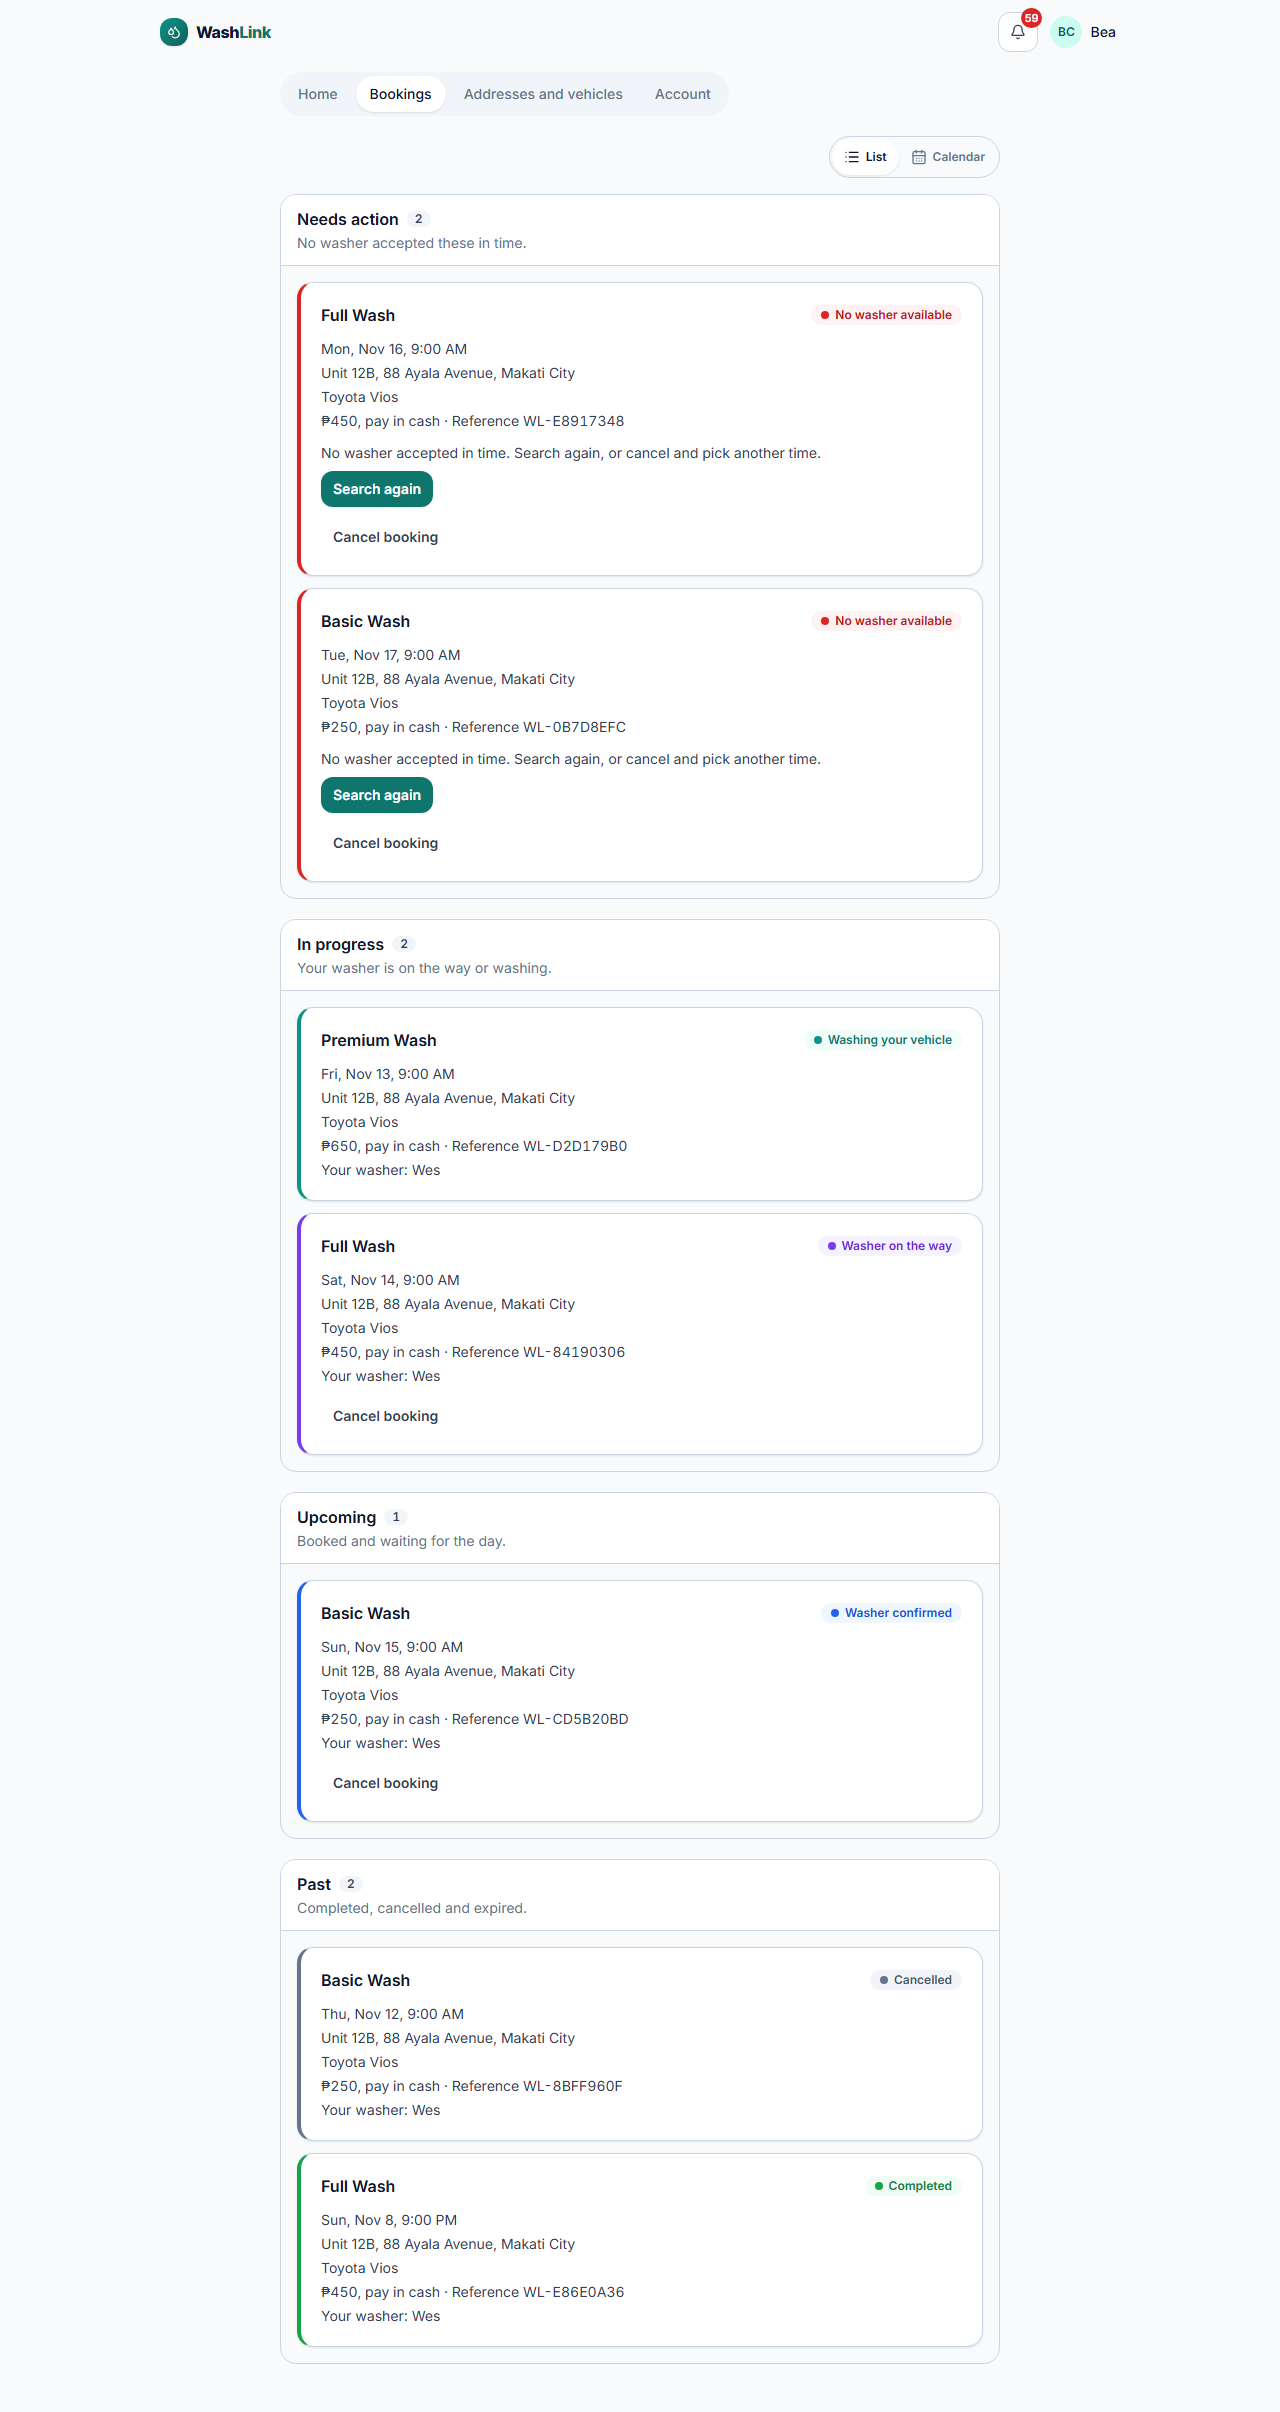
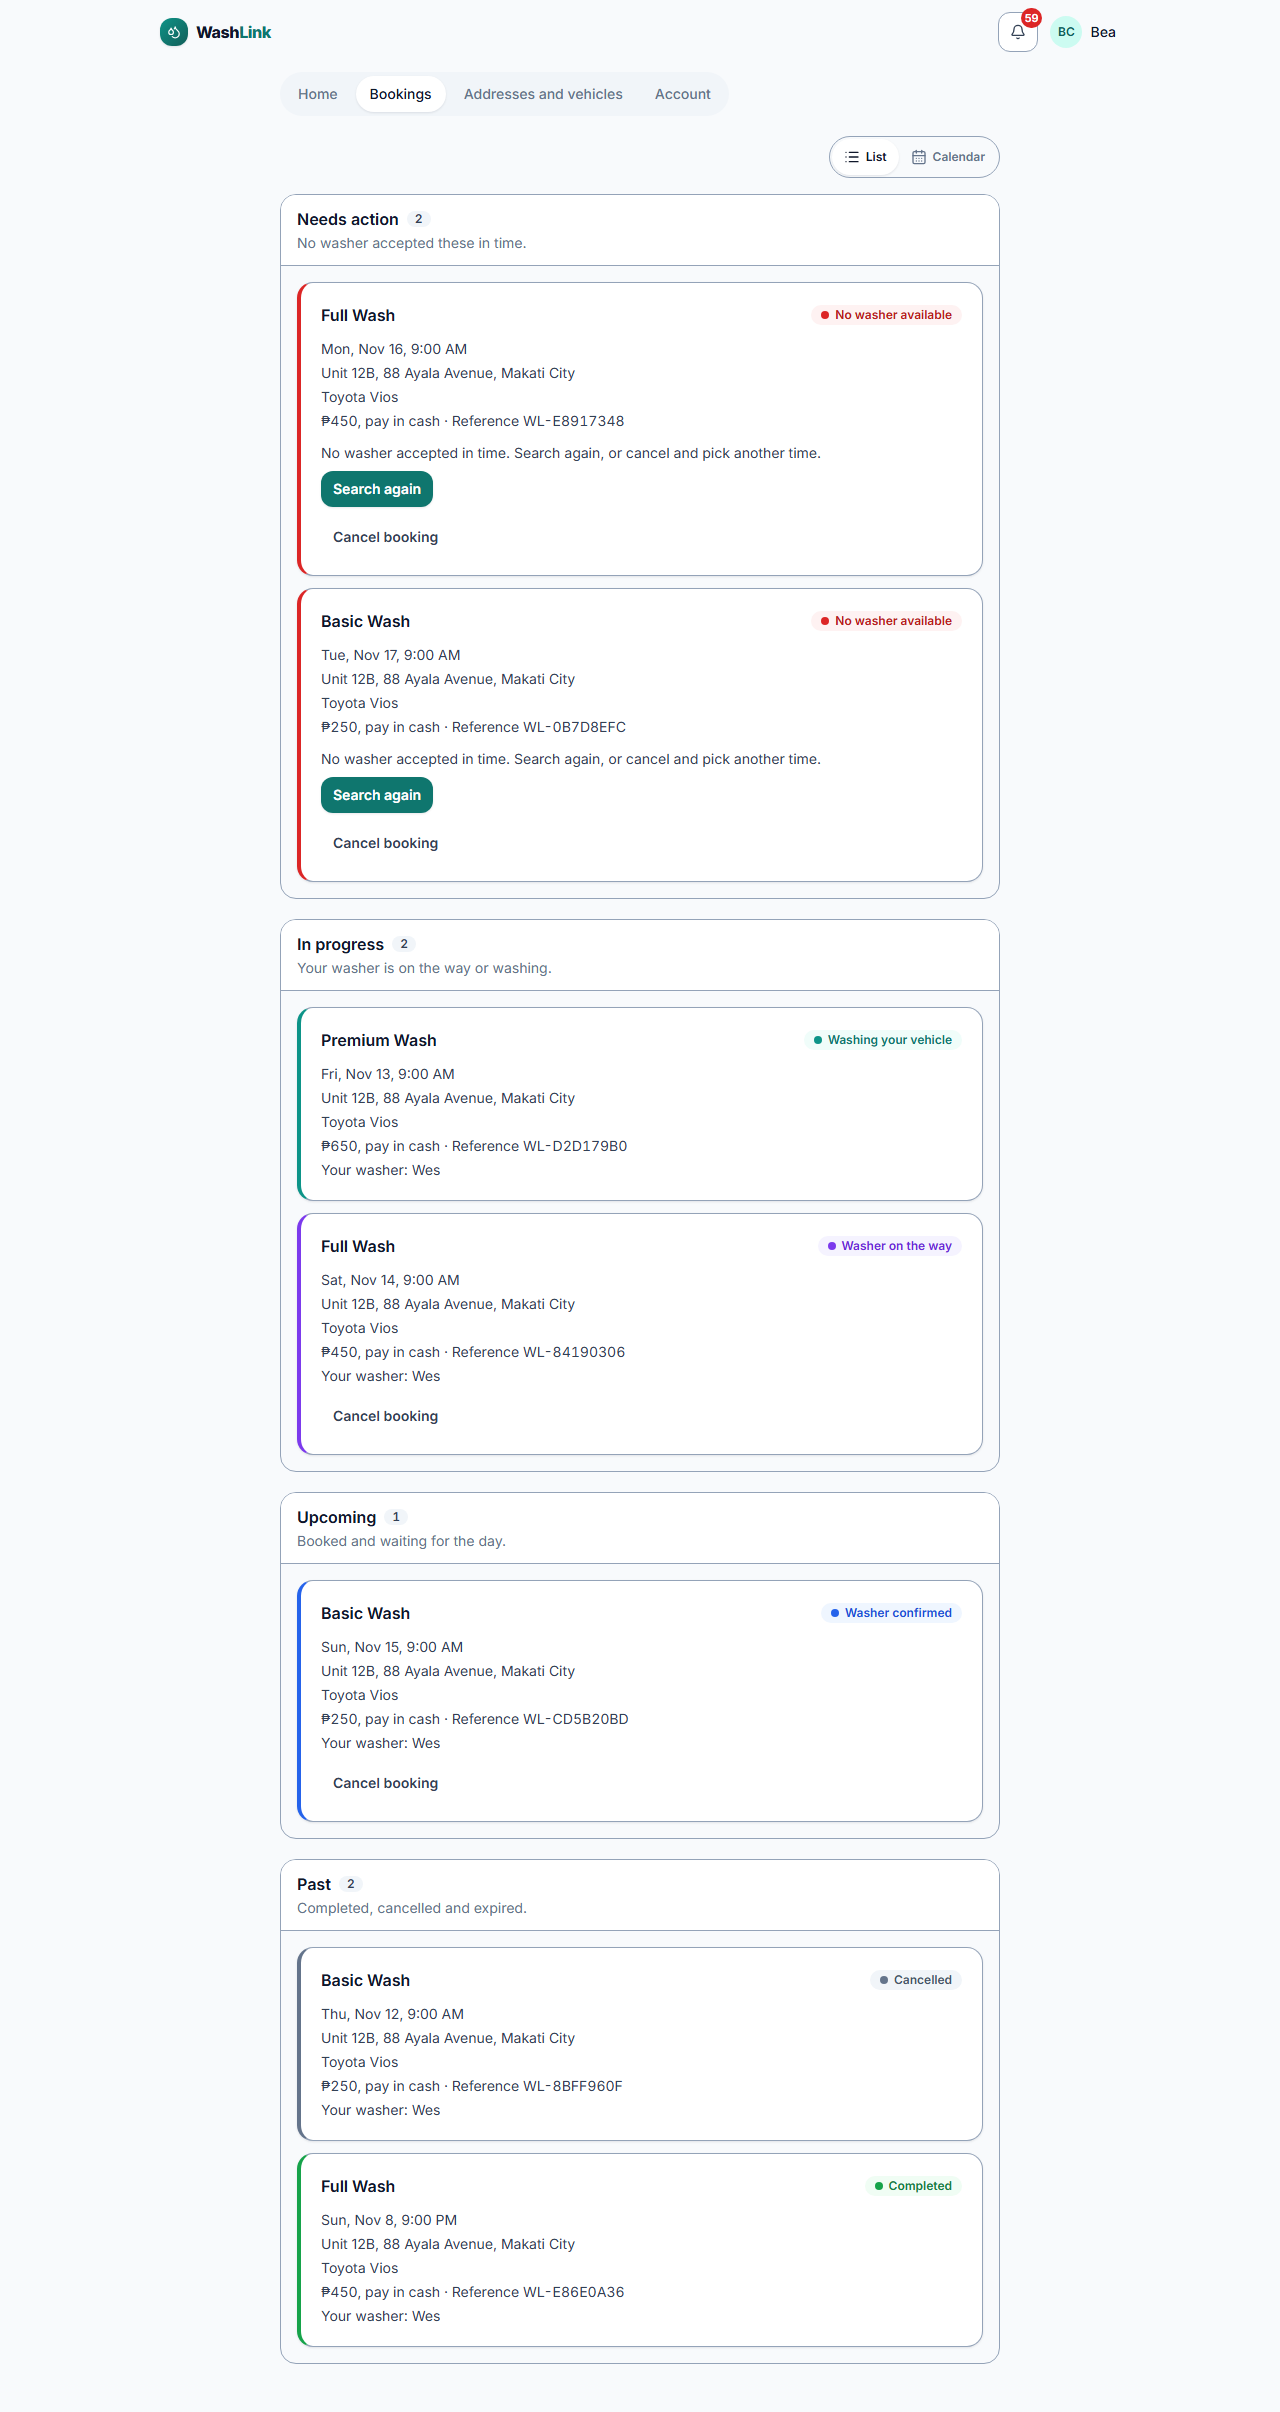
Stronger outlines in light mode
--color-card-border is now #94a3b8 (was #cbd5e1), so every card, section,
input and divider stands out clearly on the light page. Dark is unchanged.

diff --git a/frontend/src/index.css b/frontend/src/index.css
@@ -45,7 +45,7 @@
 
   /* Cards and their outline. Components use these instead of a fixed white. */
   --color-card: #ffffff;
-  --color-card-border: #cbd5e1;
+  --color-card-border: #94a3b8;
 
   /*
    * Solid fills that carry white text. They stay the same in both themes, so a teal or red button reads the same

diff --git a/docs/site/04-design-system.md b/docs/site/04-design-system.md
@@ -29,7 +29,7 @@
   `-success-solid`, `-warning-solid`, and the tints on them `--color-on-primary-soft` `#ccfbf1`,
   `--color-on-primary-accent` `#99f6e4`. Use these, never the brand scale, for button and hero backgrounds.
 - **Cards** use `--color-card` and `--color-card-border` instead of white. Every card, section, input and divider is
-  outlined with `--color-card-border` (light `#cbd5e1`), never `--color-ink-200`, which is too faint on white. `bg-white` remains only as faint overlays
+  outlined with `--color-card-border` (light `#94a3b8`), never `--color-ink-200`, which is too faint on white. `bg-white` remains only as faint overlays
   (`/5`–`/30`) on teal hero panels.
 - The public landing page stays dark in both themes.
 
@@ -38,7 +38,7 @@
 |---|---|---|
 | Brand | 50 `#f0fdfa` … **700 `#0f766e`** … 950 `#042f2e` | 50 `#0c2a28` … 700 `#5eead4` (text) … 950 `#f0fdfa` |
 | Surface | `#ffffff` · muted `#f8fafc` · sunken `#f1f5f9` | `#121d20` · `#0f191c` · `#0a1315` |
-| Card | `#ffffff`, border `#cbd5e1` | `#121d20`, border `#2a3b41` |
+| Card | `#ffffff`, border `#94a3b8` | `#121d20`, border `#2a3b41` |
 | Ink | 900 `#0f172a` … 100 `#f1f5f9` | 900 `#e7eef0` … 100 `#1a282c` |
 | Success / warning / danger | 50 · 500 · 600 | dark tints and lighter text |
 | Info | 50 `#f0f9ff` · 200 `#bae6fd` · 600 `#0369a1` | `#0b2638` · `#1e4a66` · `#7dd3fc` |
